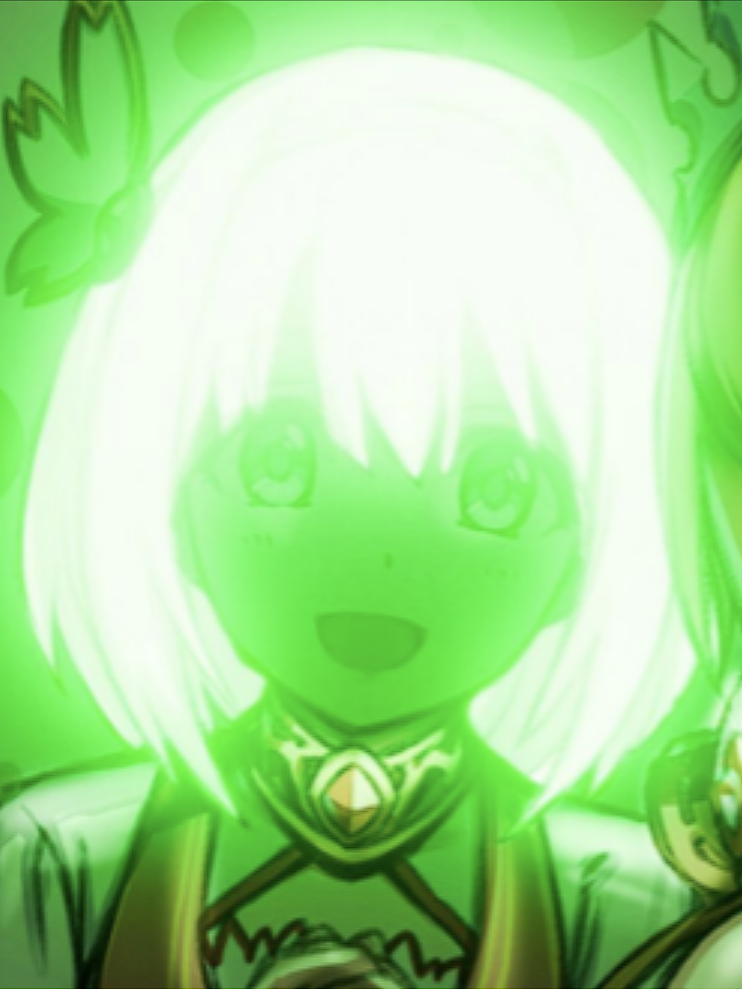
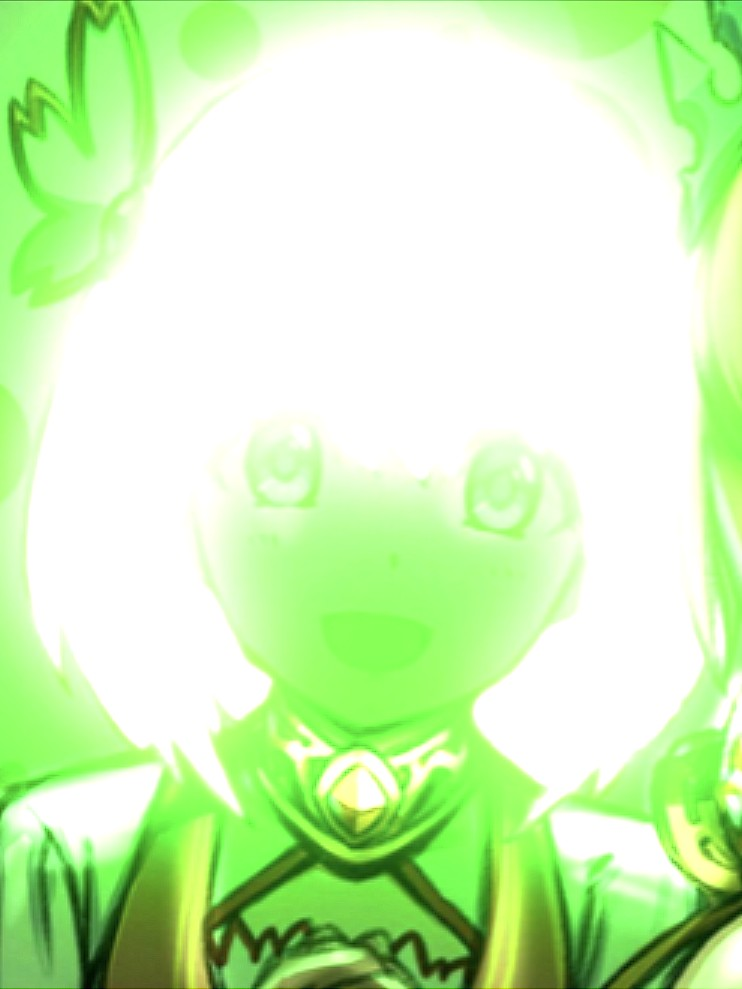
fix(about): rapikan efek decode potret dan pasangan file formal/illustrated
- Hapus readout 01/02 di PortraitSwap biar jadi hidden feature
- Urutan sel decode jadi acak, bukan sweep atas-ke-bawah
- Perbaiki mapping progres biar tidak ada jeda diam di akhir animasi
  dan tidak ada sel yang nyangkut belum ter-decode
- Tukar isi static/portrait-formal.jpg & portrait-illustrated.jpg
  (nama filenya kebalik dari isinya) dan balik urutan primary/secondary
  di site.js: formal tampil default, illustrated muncul saat hover

diff --git a/src/lib/components/PortraitSwap.svelte b/src/lib/components/PortraitSwap.svelte
@@ -85,12 +85,12 @@
     rows = Math.max(4, Math.round((COLS * H) / W));
     cellW = W / COLS;
     cellH = H / rows;
-    // Scan order: mostly top to bottom, with enough noise that the front
-    // reads as a decode, not a curtain.
+    // Scan order: fully random per cell, so the decode reads as noise
+    // resolving rather than a curtain sweeping top to bottom.
     thresholds = new Float32Array(COLS * rows);
     for (let r = 0; r < rows; r++) {
       for (let c = 0; c < COLS; c++) {
-        thresholds[r * COLS + c] = clamp01((r / rows) * 0.82 + hash(r, c) * 0.18);
+        thresholds[r * COLS + c] = hash(r, c);
       }
     }
     lowA = document.createElement('canvas');
@@ -146,10 +146,21 @@
 
     g.imageSmoothingEnabled = bs <= 1.5;
     g.clearRect(0, 0, W, H);
+
+    // Fully revealed: draw the photo straight through, no per-cell grid,
+    // so nothing can linger un-decoded after a hover.
+    if (p >= 1) {
+      g.drawImage(lowB, 0, 0, lw, lh, 0, 0, W, H);
+      percent = 100;
+      return;
+    }
+
     g.drawImage(lowA, 0, 0, lw, lh, 0, 0, W, H);
 
-    // Swap front: cells past the front show the photo.
-    const f = clamp01((p - 0.18) / 0.64);
+    // Swap front: cells past the front show the photo. Starts a beat after
+    // the tween begins (boot-style delay) but finishes exactly when the
+    // tween does, so there's no dead time at the end waiting on nothing.
+    const f = clamp01((p - 0.12) / 0.88);
     if (f > 0) {
       const scale = lw / W;
       for (let r = 0; r < rows; r++) {
@@ -219,6 +230,10 @@
     if (secondaryBroken || revealed === on) return;
     revealed = on;
     if (!canvasReady || !ctx) return;
+    if (anim.q < 1) {
+      gsap.killTweensOf(anim, { q: true });
+      anim.q = 1;
+    }
     ctx.add(() => {
       gsap.to(anim, {
         p: on ? 1 : 0,
@@ -366,19 +381,5 @@
     <span class="pointer-events-none absolute -bottom-px -left-px z-10 h-3 w-3 border-b-2 border-l-2 opacity-0 transition-opacity duration-150 group-hover:opacity-100 group-focus-visible:opacity-100" style="border-color: var(--yorha-accent);" aria-hidden="true"></span>
     <span class="pointer-events-none absolute -bottom-px -right-px z-10 h-3 w-3 border-b-2 border-r-2 opacity-0 transition-opacity duration-150 group-hover:opacity-100 group-focus-visible:opacity-100" style="border-color: var(--yorha-accent);" aria-hidden="true"></span>
 
-    {#if !secondaryBroken}
-      <!-- Readout: real progress of the decode, then which frame is showing -->
-      <span
-        class="pointer-events-none absolute bottom-2 right-2 z-10 border px-1.5 py-0.5 font-mono text-label tracking-[0.2em]"
-        style="background-color: var(--yorha-bg); border-color: var(--yorha-border); color: var(--yorha-text-muted);"
-        aria-hidden="true"
-      >
-        {#if canvasReady && percent > 0 && percent < 100}
-          <span style="color: var(--yorha-accent);">{String(percent).padStart(3, '0')}%</span>
-        {:else}
-          {revealed ? '02 / 02' : '01 / 02'}
-        {/if}
-      </span>
-    {/if}
   </button>
 {/if}

diff --git a/src/lib/content/site.js b/src/lib/content/site.js
@@ -38,12 +38,12 @@ export const about = {
   location: 'Bandung, West Java',
   status: 'Node 01: Staging & Lab Assembly',
   // Portrait pair for the About section. `primary` is what visitors see first
-  // (the illustrated one); `secondary` wipes in on hover or tap (the formal
-  // photo). Drop both files in static/ and keep the paths absolute. If a file
+  // (the formal photo); `secondary` wipes in on hover or tap (the illustrated
+  // one). Drop both files in static/ and keep the paths absolute. If a file
   // is missing the component falls back to the auto-playing snake placeholder.
   portrait: {
-    primary: '/portrait-illustrated.jpg',
-    secondary: '/portrait-formal.jpg',
+    primary: '/portrait-formal.jpg',
+    secondary: '/portrait-illustrated.jpg',
     alt: 'Bakti Surya Atmaja'
   }
 };

diff --git a/CHANGELOG.md b/CHANGELOG.md
@@ -32,6 +32,12 @@ Format changelog ini mengacu pada [Keep a Changelog](https://keepachangelog.com/
   - Readout di pojok menampilkan persen progres decode yang sungguhan selama animasi, lalu kembali ke `01 / 02` atau `02 / 02`.
   - Durasi dan easing dari `motion.js` (`dur.lg` + `ease.draw` untuk swap, `dur.xl` + `ease.out` untuk boot), semua tween di `gsap.context`. Reduced motion, canvas yang tidak tersedia, atau file yang hilang jatuh ke dua `<img>` biasa yang bertukar seketika, dan gambar tetap ada di DOM untuk pembaca layar dan mesin pencari.
 
+- **[02:40 WIB] Perbaikan Efek Decode Potret dan Perbaikan Pasangan File (`lib/components/PortraitSwap.svelte`, `lib/content/site.js`, `static/portrait-*.jpg`):**
+  - Readout `01 / 02` / `02 / 02` dan persen progres di pojok kanan bawah dihapus; swap hover/fokus/tap tetap jalan tapi jadi hidden feature tanpa indikator visual.
+  - Urutan sel decode diganti dari sweep dominan atas-ke-bawah menjadi murni acak per sel (hash sinus tanpa bias baris).
+  - Mapping progres-ke-front diperbaiki (`0.18–0.82` menjadi `0.12–1.0`) supaya sapuan pixelate selesai persis saat tween selesai, menghapus jeda diam di ekor animasi. Tambahan: saat progres swap penuh (`p >= 1`) canvas menggambar gambar target langsung tanpa loop per-sel, dan tween boot dipaksa selesai (`q = 1`) begitu swap pertama dimulai, supaya tidak ada sel yang nyangkut belum ter-decode.
+  - File `static/portrait-illustrated.jpg` dan `static/portrait-formal.jpg` ternyata isinya kebalik dari nama filenya (yang berlabel "illustrated" adalah foto formal sungguhan, yang berlabel "formal" adalah gambar lain). Konten kedua file ditukar (`git mv`) supaya nama sesuai isi, dan `about.portrait` di `site.js` dibalik urutannya: `primary` sekarang foto formal (tampil default), `secondary` foto illustrated (nongol saat hover).
+
 ### Removed
 - **[00:08 WIB] `CustomCursor.svelte` dan `HalftonePortrait.svelte`** tidak lagi diimpor di mana pun dan dihapus dari repo; `about.working` dan `about.now` dihapus dari `site.js`.
 
